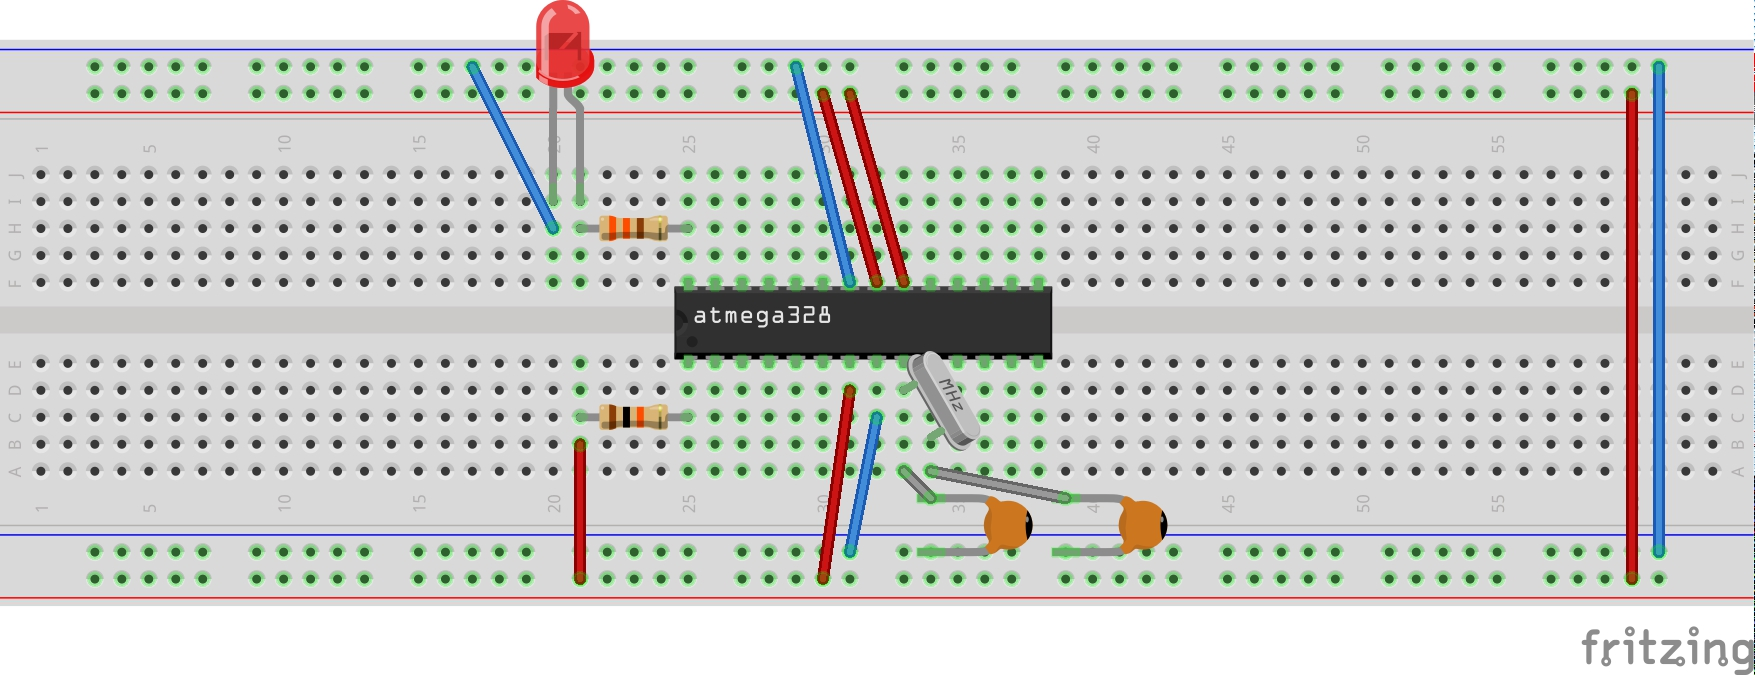
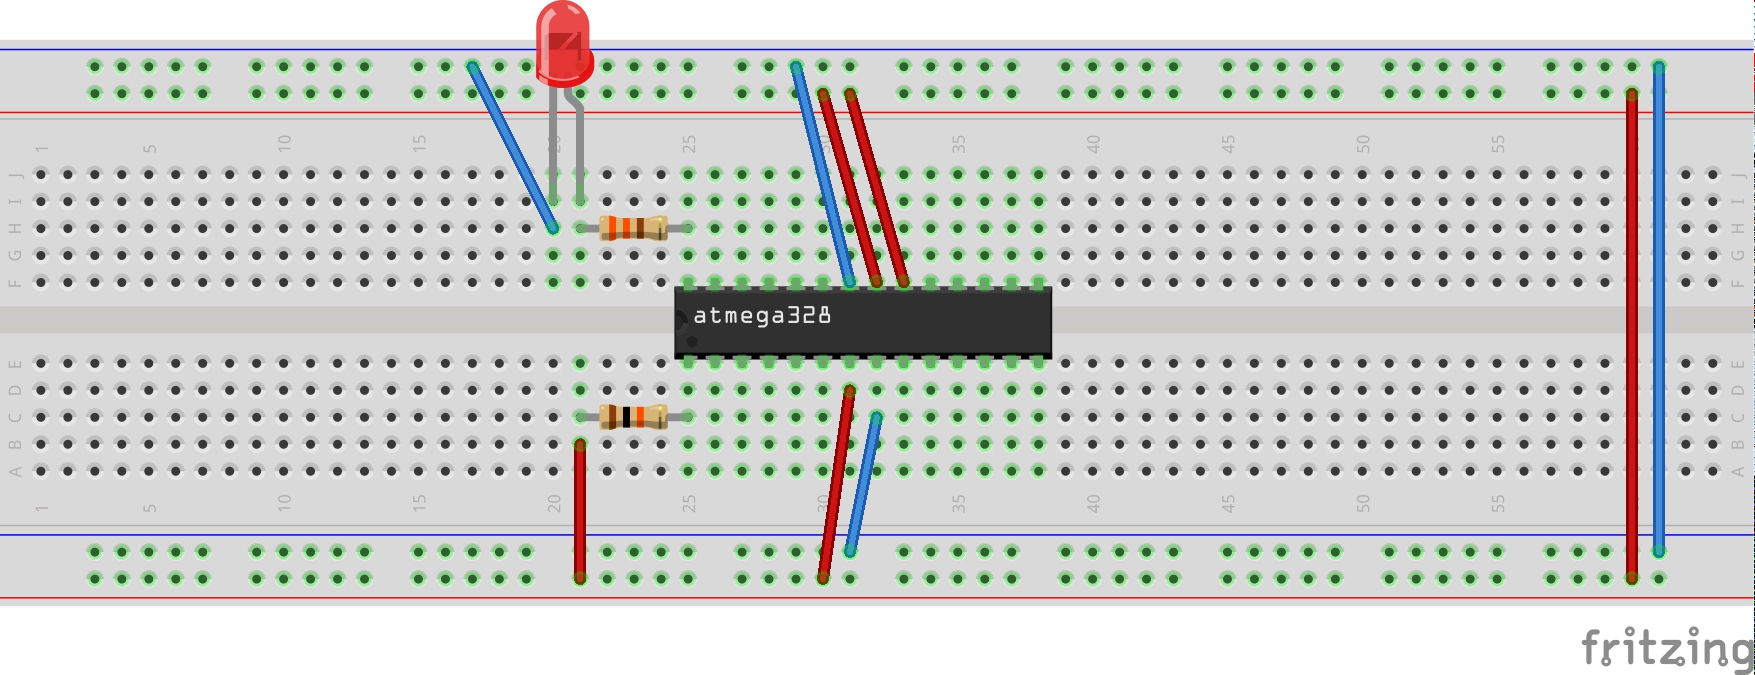
Added programmer circuit

Changed region(s): [[0.4923, 0.5289, 0.6769, 0.84]]

diff --git a/README.md b/README.md
@@ -39,13 +39,23 @@ The device was tested on Arch linux
 <img width="300" src="images/usbasp-programmer.jpg"/>
 
 #### Programmer circuit
-Components:
+Components for circuit (1) and (2):
 * 1x ATmega328p
 * 1x Resistor 10K ohm
-* 1x Crystal 16Mhz (needed for microcontrollers programs that use external oscillator. e.g Bootloader)
-* 2x Capacitor 22pf
 * 1x AVR Programmer
-<img src="images/circuit.jpg"/>
+
+Additional components for circuit (2):
+* 1x Crystal oscillator
+* 2x Capacitor 22pf
+
+Circuit (1): If the AVR fuse bits are configured to use the internal oscillator 
+(default values from the datasheet)
+<img src="images/circuit.jpg"/>  
+
+Circuit (2): If the AVR fuse bits are configured to use an external oscillator
+<img src="images/circuit.jpg"/>  
+
+*Note: For more details about fuse bits please refer to the [Fuse bits](#fuse-bits) section*
 
 For AVR Programming cable with 6 pins:  
 <img width="300" src="images/connections-6.jpg"/>  
